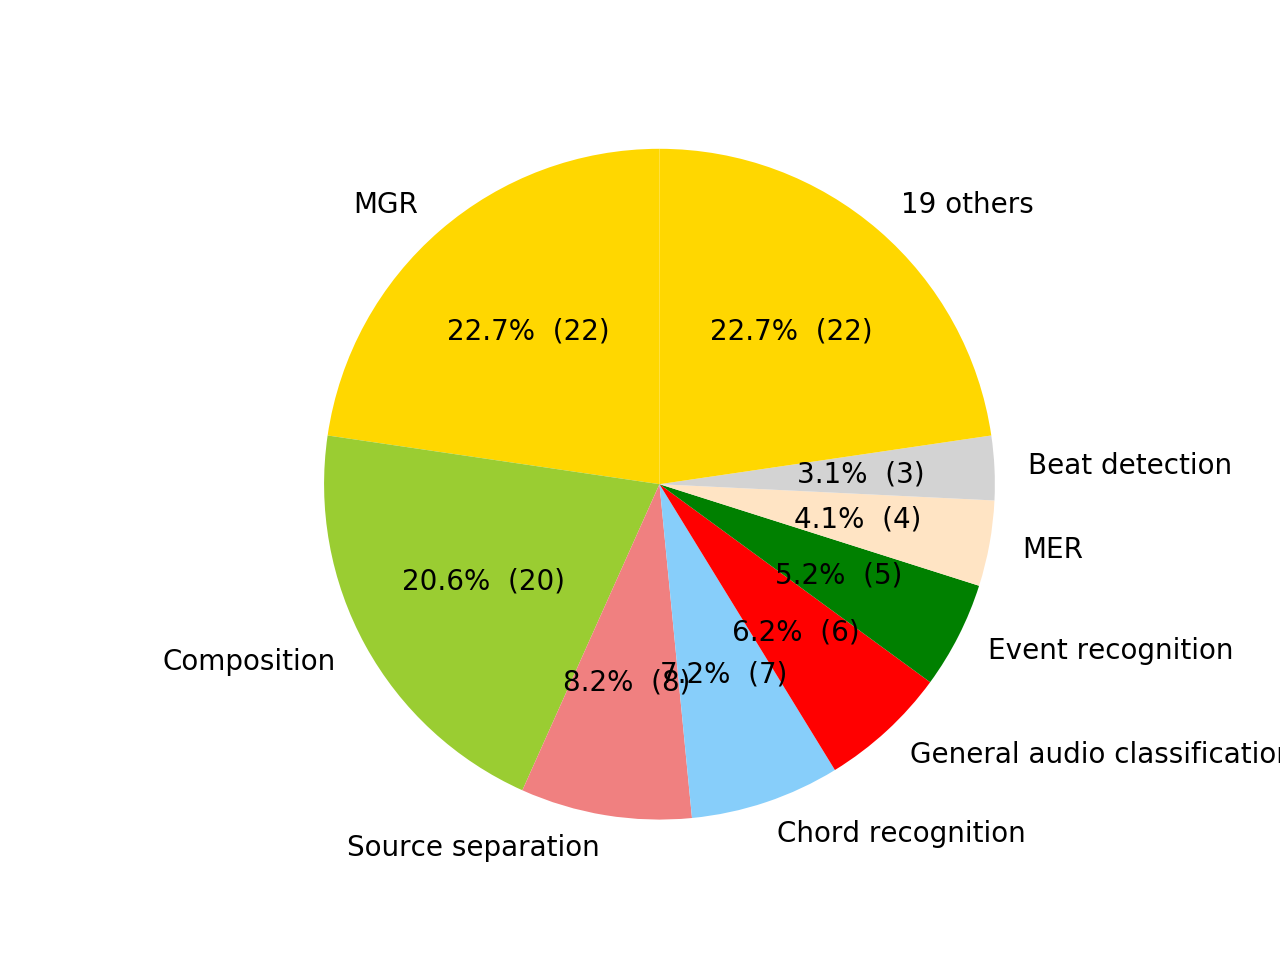
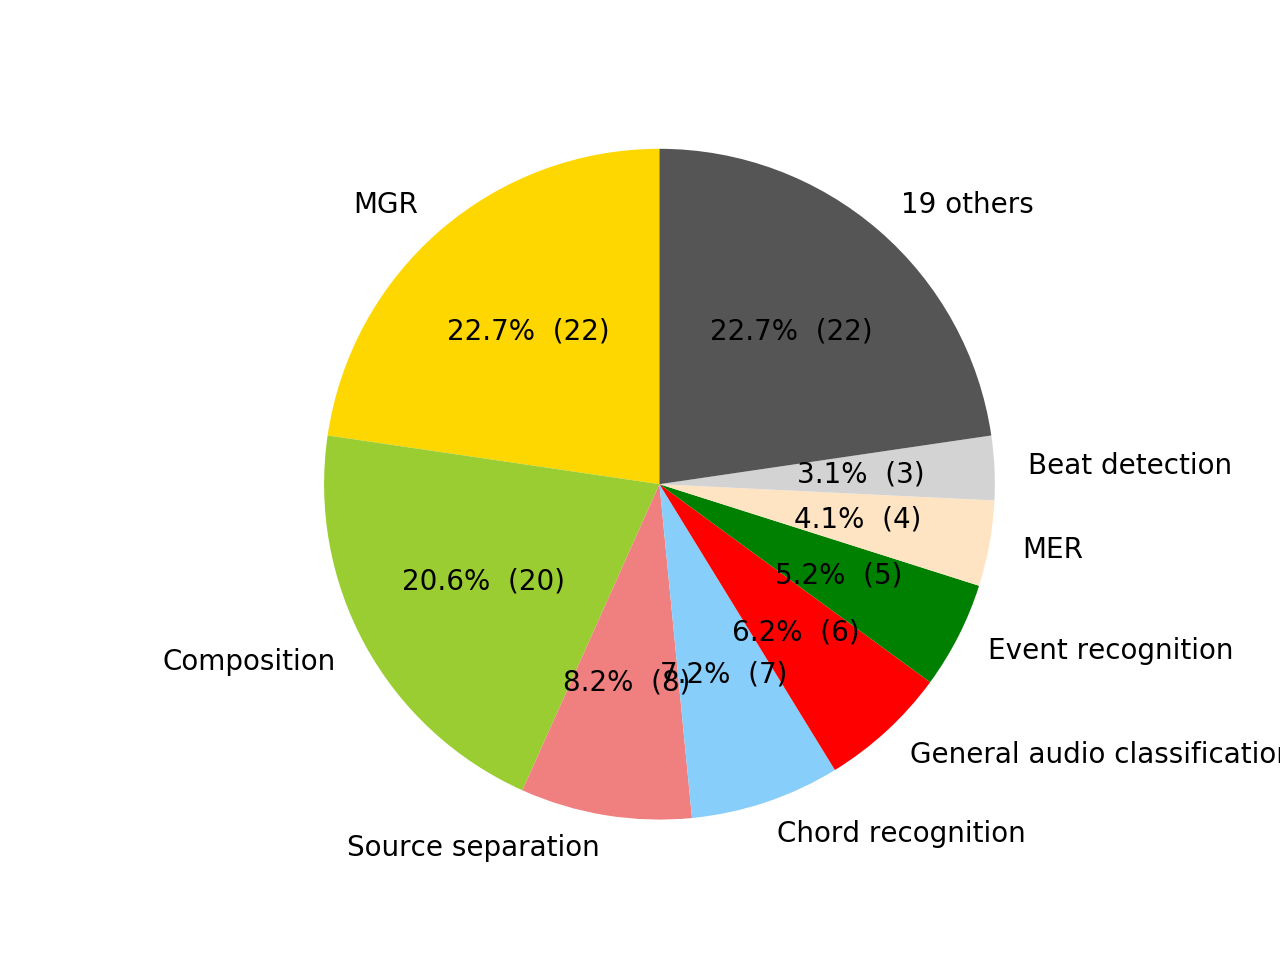
change eight color for pie chart

Changed region(s): [[0.5, 0.1562, 0.7812, 0.5]]

diff --git a/dl4m.py b/dl4m.py
@@ -265,7 +265,7 @@ def pie_chart(items, field_name, max_nb_slice=8):
         sizes = np.array(new_sizes)
 
     colors = ["gold", "yellowgreen", "lightcoral", "lightskyblue",
-              "red", "green", "bisque", "lightgrey"]
+              "red", "green", "bisque", "lightgrey", "#555555"]
 
     tmp_labels = []
     for label in labels:
